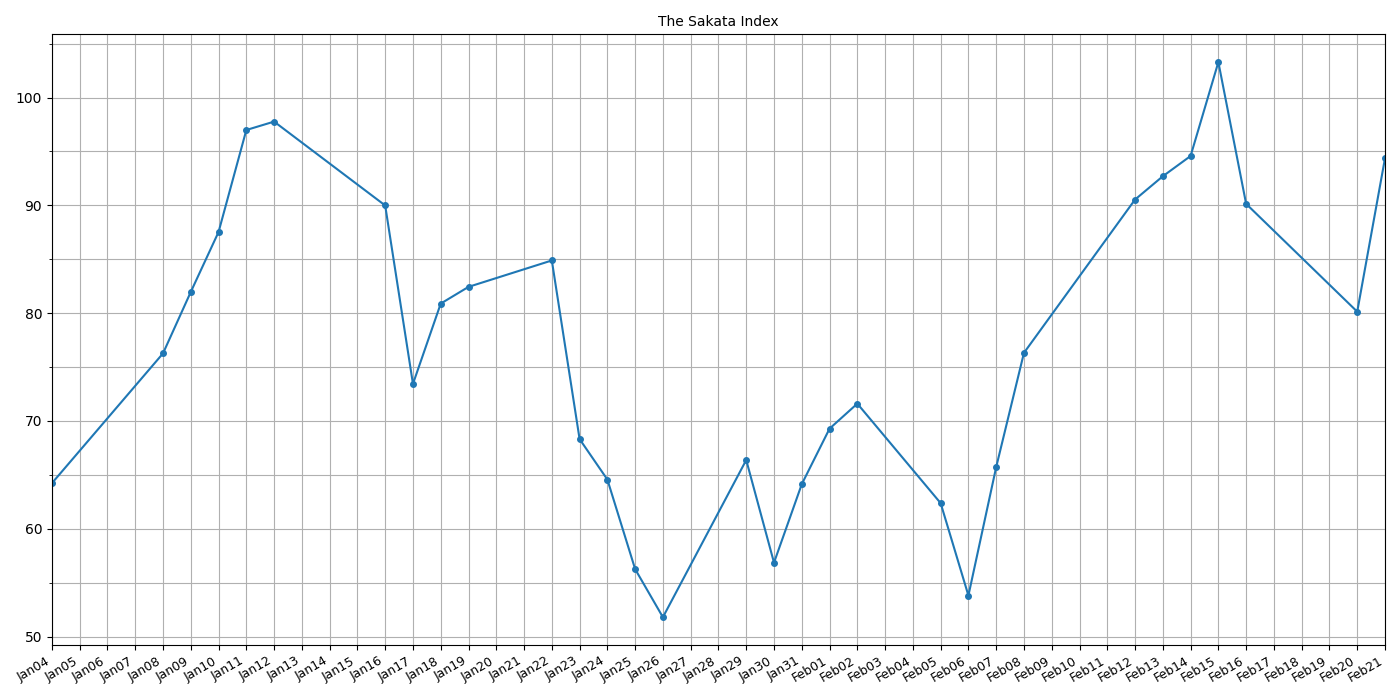
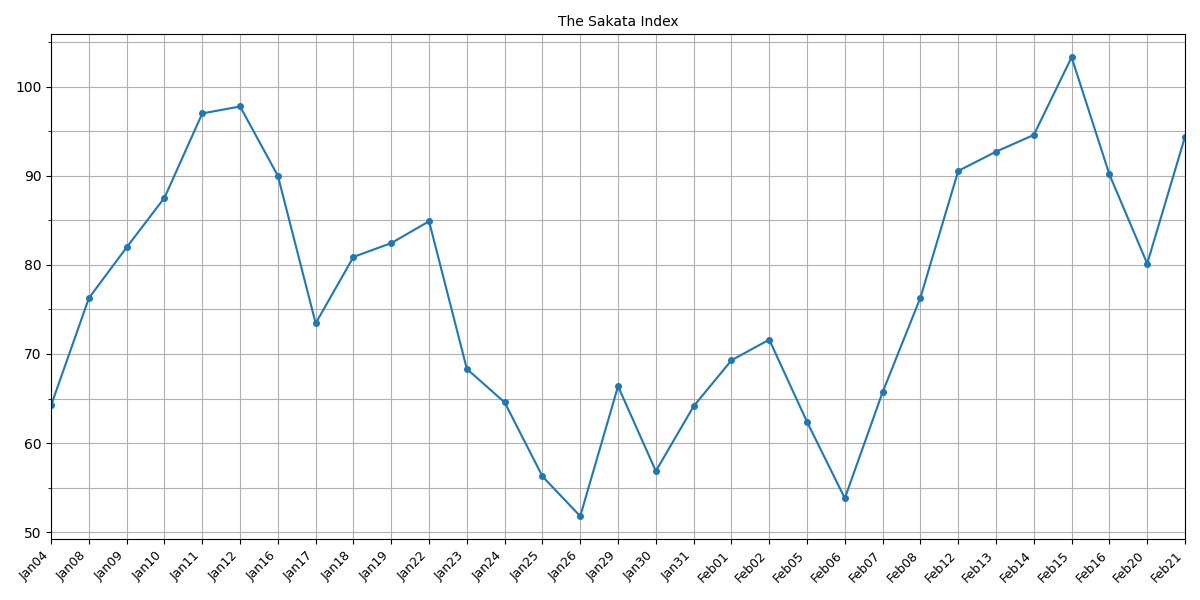
feat(test): add plotting scripts and update .gitignore
This commit introduces several new files to the 'test' directory, including scripts for generating plots (`dayplot.py`, `graph.py`, `numpylib.py`) and a batch script for daily git operations (`gitdaily.bat`). Additionally, the `.gitignore` file has been updated to no longer exclude the 'test/' directory, indicating that test scripts will now be tracked in version control. The changes also include an update to an existing plot generation script in the 'util' directory (`plot-single.py`) and a binary update to `plot-single.png` in the 'result' folder, reflecting the output of these plotting scripts.

The introduction of these plotting scripts enhances the project's capabilities in visual data analysis, specifically focusing on time series data visualization while excluding weekends. This is evident from the use of datetime and matplotlib libraries to generate plots without gaps for weekends. The batch script (`gitdaily.bat`) simplifies daily version control tasks, potentially automating routine git operations.

These additions and modifications improve the project's data visualization tools and streamline development workflows, making it easier to generate, track, and update graphical representations of data analyses.

Changed region(s): [[0.0, 0.0, 1.0, 0.99]]

diff --git a/util/plot-single.py b/util/plot-single.py
@@ -3,6 +3,7 @@ import matplotlib.pyplot as plt
 from datetime import datetime
 from matplotlib.ticker import AutoMinorLocator
 import matplotlib.dates as mdates
+import numpy as np
 
 # ファイルを読み込む
 file_path = "./result/main-batch.log"
@@ -34,7 +35,7 @@ for section in sections:
             date_str = date_match.group()
             date = datetime.strptime(date_str, "%Y-%m-%d")
             dates.append(date)
-            #dates.append(date.strftime("%b%d"))
+            # dates.append(date.strftime("%b%d"))
             break
 
     # Normの値を検索
@@ -44,20 +45,34 @@ for section in sections:
         norm_values.append(norm_value)
 
 # グラフを描画
-plt.figure(figsize=(14, 7))
-plt.plot_date(dates, norm_values, marker="o", markersize=4, linestyle='-')
+# plt.figure(figsize=(14, 7))
+# 日付を0から始まる連続したインデックスに変換
+dates_as_numbers = np.arange(len(dates))
 
+fig, ax = plt.subplots(figsize=(12, 6))
+
+# インデックスを使用してプロット
+ax.plot(dates_as_numbers, norm_values, marker="o", markersize=4)
+# X軸のラベルをインデックスに設定
+ax.set_xticks(dates_as_numbers)
+# インデックスをstring日付に置き換える
+ax.set_xticklabels([date.strftime("%b%d") for date in dates], rotation=45, ha="right")
 # X軸の範囲を調整
-if dates:
-    plt.xlim([dates[0], dates[-1]])
-    pass
+ax.set_xlim([0, len(dates) - 1])
 
-plt.gca().xaxis.set_major_formatter(mdates.DateFormatter('%b%d'))
-plt.gca().xaxis.set_major_locator(mdates.DayLocator(bymonthday=None, interval=1, tz=None))
-plt.gcf().autofmt_xdate() # X軸の日付ラベルを斜めにして重なりを防ぐ
-plt.gca().yaxis.set_minor_locator(AutoMinorLocator(2)) # Y軸の補助メモリを2ずつに設定
+"""
+    if dates:
+        plt.xlim([dates[0], dates[-1]])
+        pass
+"""
+
+# plt.gca().xaxis.set_major_formatter(mdates.DateFormatter('%b%d'))
+# plt.gca().xaxis.set_major_locator(mdates.DayLocator(bymonthday=None, interval=1, tz=None))
+
+# plt.gcf().autofmt_xdate()  # X軸の日付ラベルを斜めにして重なりを防ぐ
+plt.gca().yaxis.set_minor_locator(AutoMinorLocator(2))  # Y軸の補助メモリを2ずつに設定
 plt.title("The Sakata Index", fontsize=10)
-plt.xticks(fontsize=9)  # X軸の目盛りのフォントサイズを8に設定
+plt.xticks(fontsize=9)  # X軸の目盛りのフォントサイズを設定
 plt.grid(which="both")
 plt.tight_layout()
 plt.savefig("./result/plot-single.png")  # showの前でないと機能しない

diff --git a/test/numpylib.py b/test/numpylib.py
@@ -1,0 +1,34 @@
+import matplotlib.pyplot as plt
+from datetime import datetime, timedelta
+import numpy as np
+import matplotlib.dates as mdates
+
+# サンプルデータの生成
+start_date = datetime(2023, 4, 1)
+end_date = datetime(2023, 4, 30)
+date_list = [start_date + timedelta(days=x) for x in range((end_date - start_date).days + 1)]
+date_list = [date for date in date_list if date.weekday() < 5]  # 土日を除外
+
+np.random.seed(0)
+data = np.random.rand(len(date_list))
+
+# 日付を連続したインデックスに変換
+dates_as_numbers = np.arange(len(date_list))
+#dates_as_numbers =  mdates.date2num(date_list)
+
+fig, ax = plt.subplots()
+ax.plot(dates_as_numbers, data)  # インデックスを使用してプロット
+
+# X軸のラベルを日付に設定
+ax.set_xticks(dates_as_numbers)
+# インデックスをstring日付に置き換える
+ax.set_xticklabels([date.strftime("%b%d") for date in date_list], rotation=45, ha="right")
+#ax.xaxis.set_major_formatter(mdates.DateFormatter('%Y-%m-%d'))
+
+#plt.gcf().autofmt_xdate()
+
+plt.title("Weekdays Data Plot without Gaps")
+plt.xlabel("Date")
+plt.ylabel("Value")
+plt.tight_layout()
+plt.show()

diff --git a/test/dayplot.py b/test/dayplot.py
@@ -1,0 +1,29 @@
+import matplotlib.pyplot as plt
+from datetime import datetime, timedelta
+import numpy as np
+
+# サンプルデータの生成
+start_date = datetime(2023, 4, 1)
+end_date = datetime(2023, 4, 30)
+date_list = [start_date + timedelta(days=x) for x in range((end_date - start_date).days + 1)]
+date_list = [date for date in date_list if date.weekday() < 5]  # 土日を除外
+
+np.random.seed(0)
+data = np.random.rand(len(date_list))
+
+# 日付をインデックスに変換
+dates_as_numbers = np.arange(len(date_list))
+
+fig, ax = plt.subplots()
+ax.plot(dates_as_numbers, data)  # インデックスを使用してプロット
+
+# X軸のラベルを日付に設定
+ax.set_xticks(dates_as_numbers)
+ax.set_xticklabels([date.strftime("%b%d") for date in date_list], rotation=45, ha="right")
+
+plt.title("Weekdays Data Plot without Gaps")
+plt.xlabel("Date")
+plt.ylabel("Value")
+plt.grid()
+plt.tight_layout()
+plt.show()

diff --git a/test/graph.py b/test/graph.py
@@ -1,0 +1,26 @@
+import matplotlib.pyplot as plt
+import matplotlib.dates as mdates
+from datetime import datetime
+
+# (日付, float) 形式のタプルのリスト
+data = [("2023-01-01", 1.0), ("2023-02-01", 3.5), ("2023-03-01", 2.4)]
+
+# 日付と値を分けてリストに格納
+# dates = [datetime.strptime(date, "%Y-%m-%d") for date, value in data]
+# values = [value for date, value in data]
+
+# プロット
+plt.figure(figsize=(10, 6))  # グラフのサイズ設定
+# plt.plot(dates, values, marker="o")  # 日付と値をプロット
+plt.plot(*zip(*data), marker="o")  # 日付と値をプロット
+
+
+
+# 日付フォーマットの設定
+#plt.gca().xaxis.set_major_formatter(mdates.DateFormatter("%Y-%m-%d"))
+#plt.gca().xaxis.set_major_locator(mdates.MonthLocator())
+
+# 自動的に日付ラベルを斜めにする
+#plt.gcf().autofmt_xdate()
+
+plt.show()
